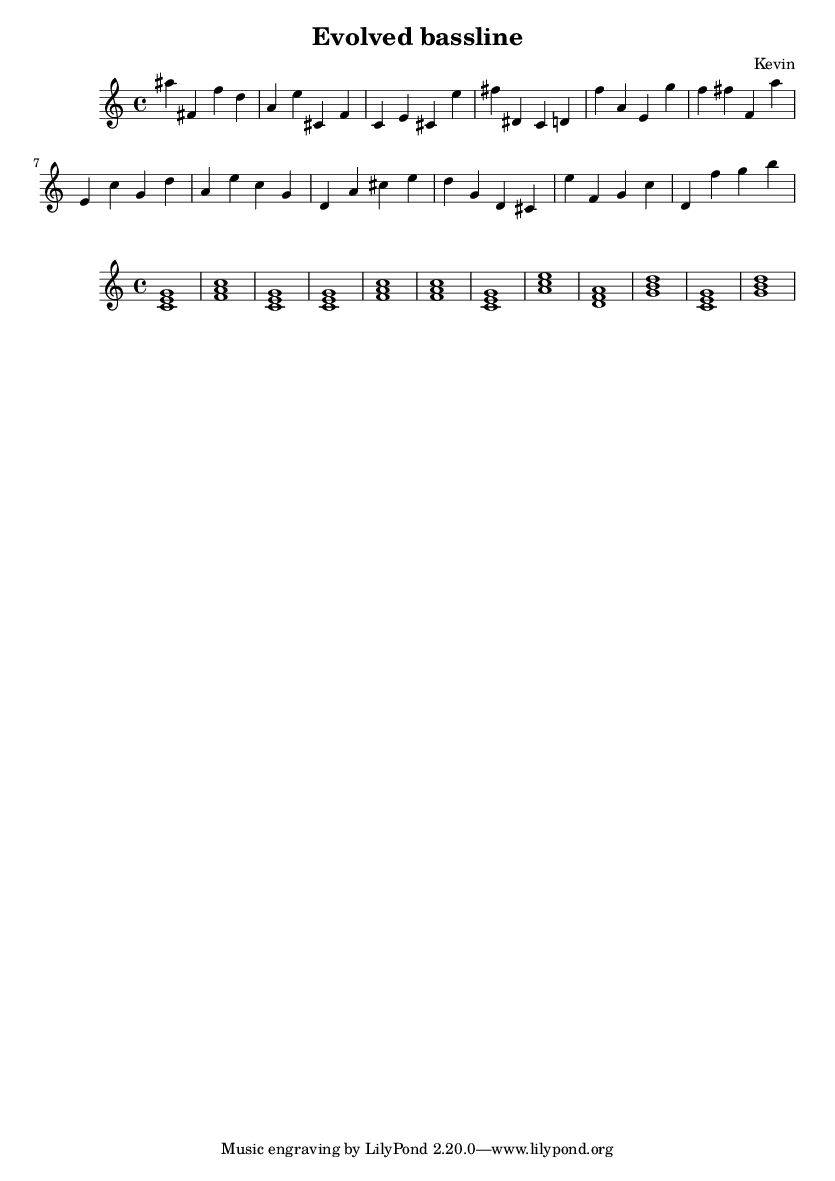
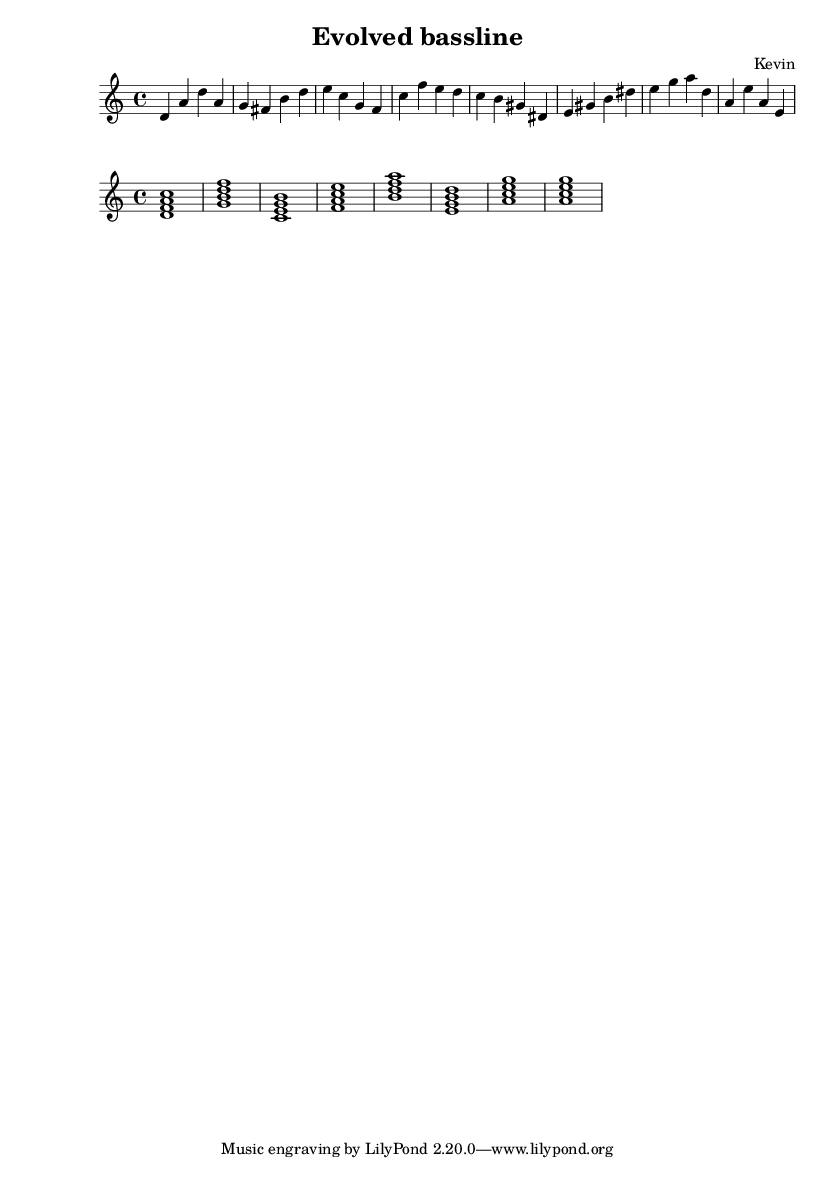
Added new progressions

Changed region(s): [[0.0311, 0.061, 0.9653, 0.1829], [0.1246, 0.2134, 0.9653, 0.2743]]

diff --git a/music.py b/music.py
@@ -10,44 +10,31 @@ import random
 import os
 
 
+
 '''
-Handle musical operations for GA
+Initialization
 '''
 
+# MIDI note values
+MIN_NOTE = 24 # C0
+MAX_NOTE = 47 # B1
+INIT_NOTE = 36
 
-# Vars for MIDI output
-BPM = 200
-soundfont = 'FluidR3_GM.sf2'
+def random_note():
+    # return random.randint(MIN_NOTE, MAX_NOTE)
+    # return INIT_NOTE
+    return random.randint(INIT_NOTE-5, INIT_NOTE+5)
 
-# Evaluation metrics
-NON_REPEATED_NOTES = 4
-NOTE_IN_CHORD = 3
-NOTE_IN_SCALE = 1
-LEADING_TONE = 2
-ROOT = 5
+
+'''
+Mutation
+'''
 
 # Mutations stpes to be used - half, whole, m3, M3, 4, 5
 MUT_STEPS = [-1, 1, -2, 2, -3, 3, -4, 4, -5, 5, -7, 7]
 
 # prob of mutating any given note
 P_MUT_NOTE = 0.05
-
-# MIDI note values
-MIN_NOTE = 24 # C0
-MAX_NOTE = 47 # B1
-
-
-'''
-Initialization
-'''
-
-def random_note():
-    return random.randint(MIN_NOTE, MAX_NOTE)
-
-
-'''
-Mutation
-'''
 
 # def stepwise(self, note_index, interval):
     
@@ -82,34 +69,34 @@ def mutate_bassline(bassline, changes):
             if bassline[note_index] < MIN_NOTE or bassline[note_index] > MAX_NOTE:
                 bassline[note_index] -= interval
                 continue
-            
-            # interval between mutated and next/previous note that is larger than a fifth or a tritone
-            if note_index > 0:
-                new_jump = abs(bassline[note_index] - bassline[note_index - 1])
-                if new_jump > 7 or new_jump == 6:
-                    bassline[note_index] -= interval
-                    continue
-            if note_index < changes.BASS_LEN - 1:
-                new_jump = abs(bassline[note_index] - bassline[note_index + 1])
-                if new_jump > 7 or new_jump == 6:
-                    bassline[note_index] -= interval
-                    continue
 
-            if note_index > 0 and note_index < changes.BASS_LEN - 1:            
+            if note_index > 0 and note_index < changes.BASS_LEN - 1:
                 next_note = bassline[note_index + 1]
                 prev_note = bassline[note_index - 1]
                 curr_note = bassline[note_index]
-                
-                # new note doesn't create a rising/falling line, ignore with 1% probability
-                if (curr_note < prev_note and curr_note < next_note) or (curr_note > prev_note and curr_note > next_note):
-                    if random.random() < 0.01:
-                        bassline[note_index] -= interval
-                        continue
+
+                # interval between next and current note is too large
+                new_jump = abs(curr_note - next_note)
+                if new_jump > 7 or new_jump == 6:
+                    bassline[note_index] -= interval
+                    continue
+                    
+                # interval between previous and current note is too large
+                new_jump = abs(curr_note - prev_note)
+                if new_jump > 7 or new_jump == 6:
+                    bassline[note_index] -= interval
+                    continue 
                     
                 # new note identical to next or previous note
                 if next_note == prev_note or next_note == curr_note:
                     bassline[note_index] -= interval
                     continue
+
+                # new note doesn't create a rising/falling line, ignore with 1% probability
+                # if (curr_note < prev_note and curr_note < next_note) or (curr_note > prev_note and curr_note > next_note):
+                #     if random.random() < 0.01:
+                #         bassline[note_index] -= interval
+                #         continue
                             
             # Add in eighths and triplets when quarters down solid
             # Increment BASS_LEN if add/remove eighths
@@ -120,6 +107,15 @@ def mutate_bassline(bassline, changes):
 '''
 Evaluation
 '''
+
+# Evaluation metrics
+NON_REPEATED_NOTES = 1
+NOTE_IN_CHORD = 3
+NOTE_IN_SCALE = 4
+NOTE_NOTE_IN_SCALE = -5
+LEADING_TONE = 2
+FIRST_NOTE_ROOT = 6
+WALKING_PATTERN = 5
 
 def evaluate_bassline(bassline, changes):
     '''
@@ -142,13 +138,12 @@ def evaluate_bassline(bassline, changes):
         
     for note_index in range(len(bassline)):
         
+        current_note = bassline[note_index]
         next_note = bassline[0] if note_index >= changes.BASS_LEN - 1 else bassline[note_index + 1]
         prev_note = bassline[changes.BASS_LEN-1] if note_index <= 0 else bassline[note_index - 1]
-        
+
         bar_num = note_index // 4
         beat_num = note_index % 4
-        
-        current_note = bassline[note_index]
         
         # 1st note: root
         if beat_num == 0:
@@ -163,7 +158,7 @@ def evaluate_bassline(bassline, changes):
             root = chord[0]
             if current_note % 12 == root:
                 
-                fitness += ROOT
+                fitness += FIRST_NOTE_ROOT
         
         # 2nd note: any note of chord/scale
         elif beat_num == 1:
@@ -195,6 +190,19 @@ def evaluate_bassline(bassline, changes):
             if half or whole or dominant:
                 
                 fitness += LEADING_TONE
+
+        # Check if current note fits in current chord
+        root = changes.BLUES_PROG_INT[bar_num][0]
+        root_note = Note().from_int(root)
+        scale = scales.Diatonic(root_note.name, (3, 7)).ascending()
+        
+        if Note().from_int(current_note).name in scale:
+            
+            fitness += NOTE_IN_SCALE
+
+        else:
+
+            fitness += NOTE_NOTE_IN_SCALE
         
         # reward if two adjacent notes are different
         if current_note != prev_note:
@@ -205,28 +213,13 @@ def evaluate_bassline(bassline, changes):
             
         if prev_note != next_note:
             fitness += NON_REPEATED_NOTES
-            
         
-        # Check if current note fits in current chord
-        root = changes.BLUES_PROG_INT[bar_num][0]
-        root_note = Note().from_int(root)
-        scale = scales.Diatonic(root_note.name, (3, 7)).ascending()
-        
-        if Note().from_int(current_note).name in scale:
-            
-            fitness += NOTE_IN_SCALE
-            
-        # get scale from 
-        
-        # # Reward if current note is between previous and next
-        # if prev_note > 0 and next_note > 0:
-        #     # up
-        #     if current_note > prev_note and current_note < next_note:
-        #         fitness += 10
-        
-        #     # down
-        #     if current_note < prev_note and current_note > next_note:
-        #         fitness += 10
+        # reward for an upwards or downwards "walking" pattern
+        if current_note > prev_note and current_note < next_note:
+            fitness += WALKING_PATTERN
+    
+        if current_note < prev_note and current_note > next_note:
+            fitness += WALKING_PATTERN
         
     return fitness,
 
@@ -264,6 +257,10 @@ def JazzBass():
 '''
 Callable output methods
 '''
+
+# Vars for MIDI output
+BPM = 200
+soundfont = 'FluidR3_GM.sf2'
 
 def generate_composition(bassline, changes, transpose=0):
     # Create data structures holding MIDI notes with duration

diff --git a/ga.py b/ga.py
@@ -28,7 +28,8 @@ class GA:
         self.toolbox.register("attribute", music.random_note)
         self.toolbox.register("individual", tools.initRepeat, creator.Individual, self.toolbox.attribute, n=self.CHANGES.BASS_LEN)
         self.toolbox.register("population", tools.initRepeat, list, self.toolbox.individual, n=self.POP_SIZE)
-        self.toolbox.register("mate", tools.cxTwoPoint)
+        # self.toolbox.register("mate", tools.cxTwoPoint)
+        self.toolbox.register("mate", tools.cxOnePoint)
         self.toolbox.register("selectParents", tools.selTournament, tournsize=self.TOURN_SIZE, k=self.NUM_PARENTS)
         self.toolbox.register("selectSurvivors", tools.selBest, k=self.POP_SIZE)
 
@@ -41,7 +42,6 @@ class GA:
         plt.title(f'Average Fitness by generation, population={self.POP_SIZE}')
         plt.xlabel('Generation')
         plt.ylabel('Fitness')
-
 
     def run_GA(self):
         '''
@@ -105,6 +105,7 @@ class GA:
         best_bassline = hof[0]
         
         print(best_bassline)
+        print(best_bassline.fitness.values)
         self.print_plot(avg_fit_of_gen)
         
         c_score = music.generate_composition(best_bassline, self.CHANGES, transpose=24)

diff --git a/run.py b/run.py
@@ -13,7 +13,7 @@ import sys
 
 # Koza Tableau
 num_gens = 500
-pop_size = 100
+pop_size = 50
 tourn_size = 3
 hof_size = 1
 prob_cx = 0.1
@@ -24,9 +24,15 @@ prob_mut = 0.05
 if len(sys.argv) != 2:
     sys.exit('FileNotSuppliedError: Must supply name of text file contatining a chord progression')
 changes = Progression(sys.argv[1])
+# changes = Progression('blues.txt')
 
 # Create GA object
 ga = GA(num_gens, pop_size, tourn_size, hof_size, prob_cx, prob_mut, changes)
 
 # Run GA and output results
 ga.run_GA()
+
+
+# Tests to run statistics on
+# Num gens vs fitness
+# population size vs fitness
